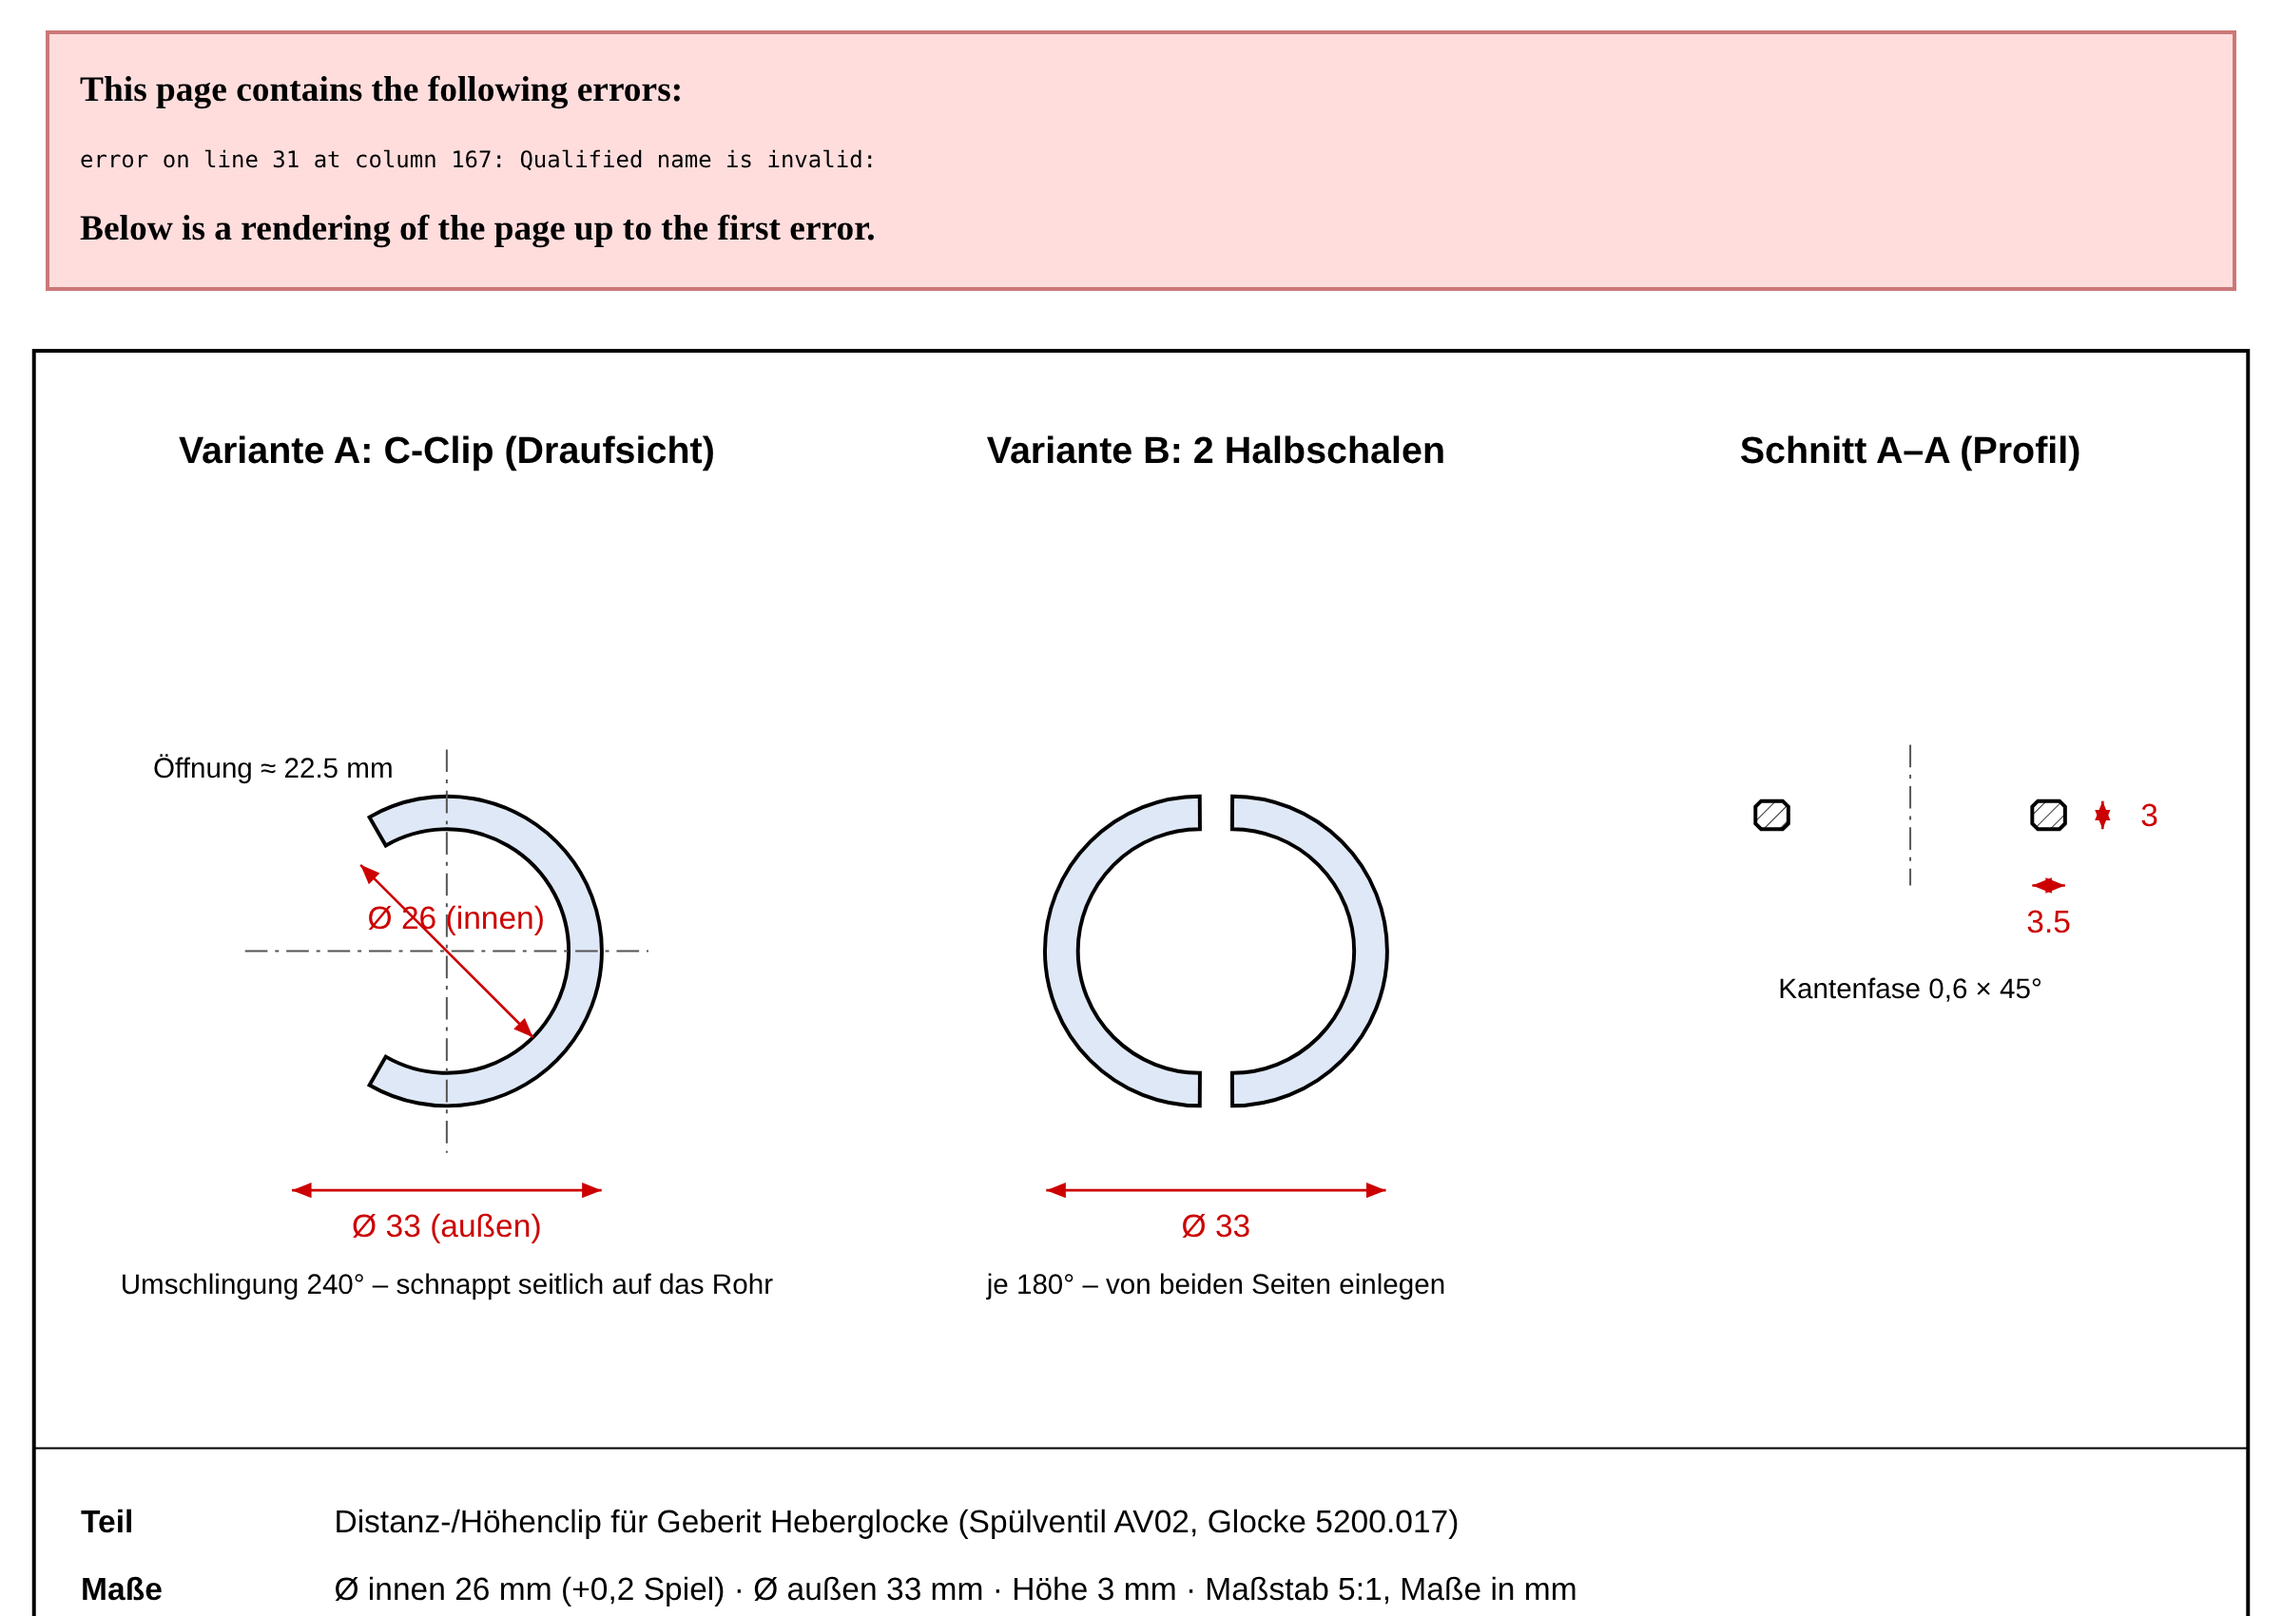
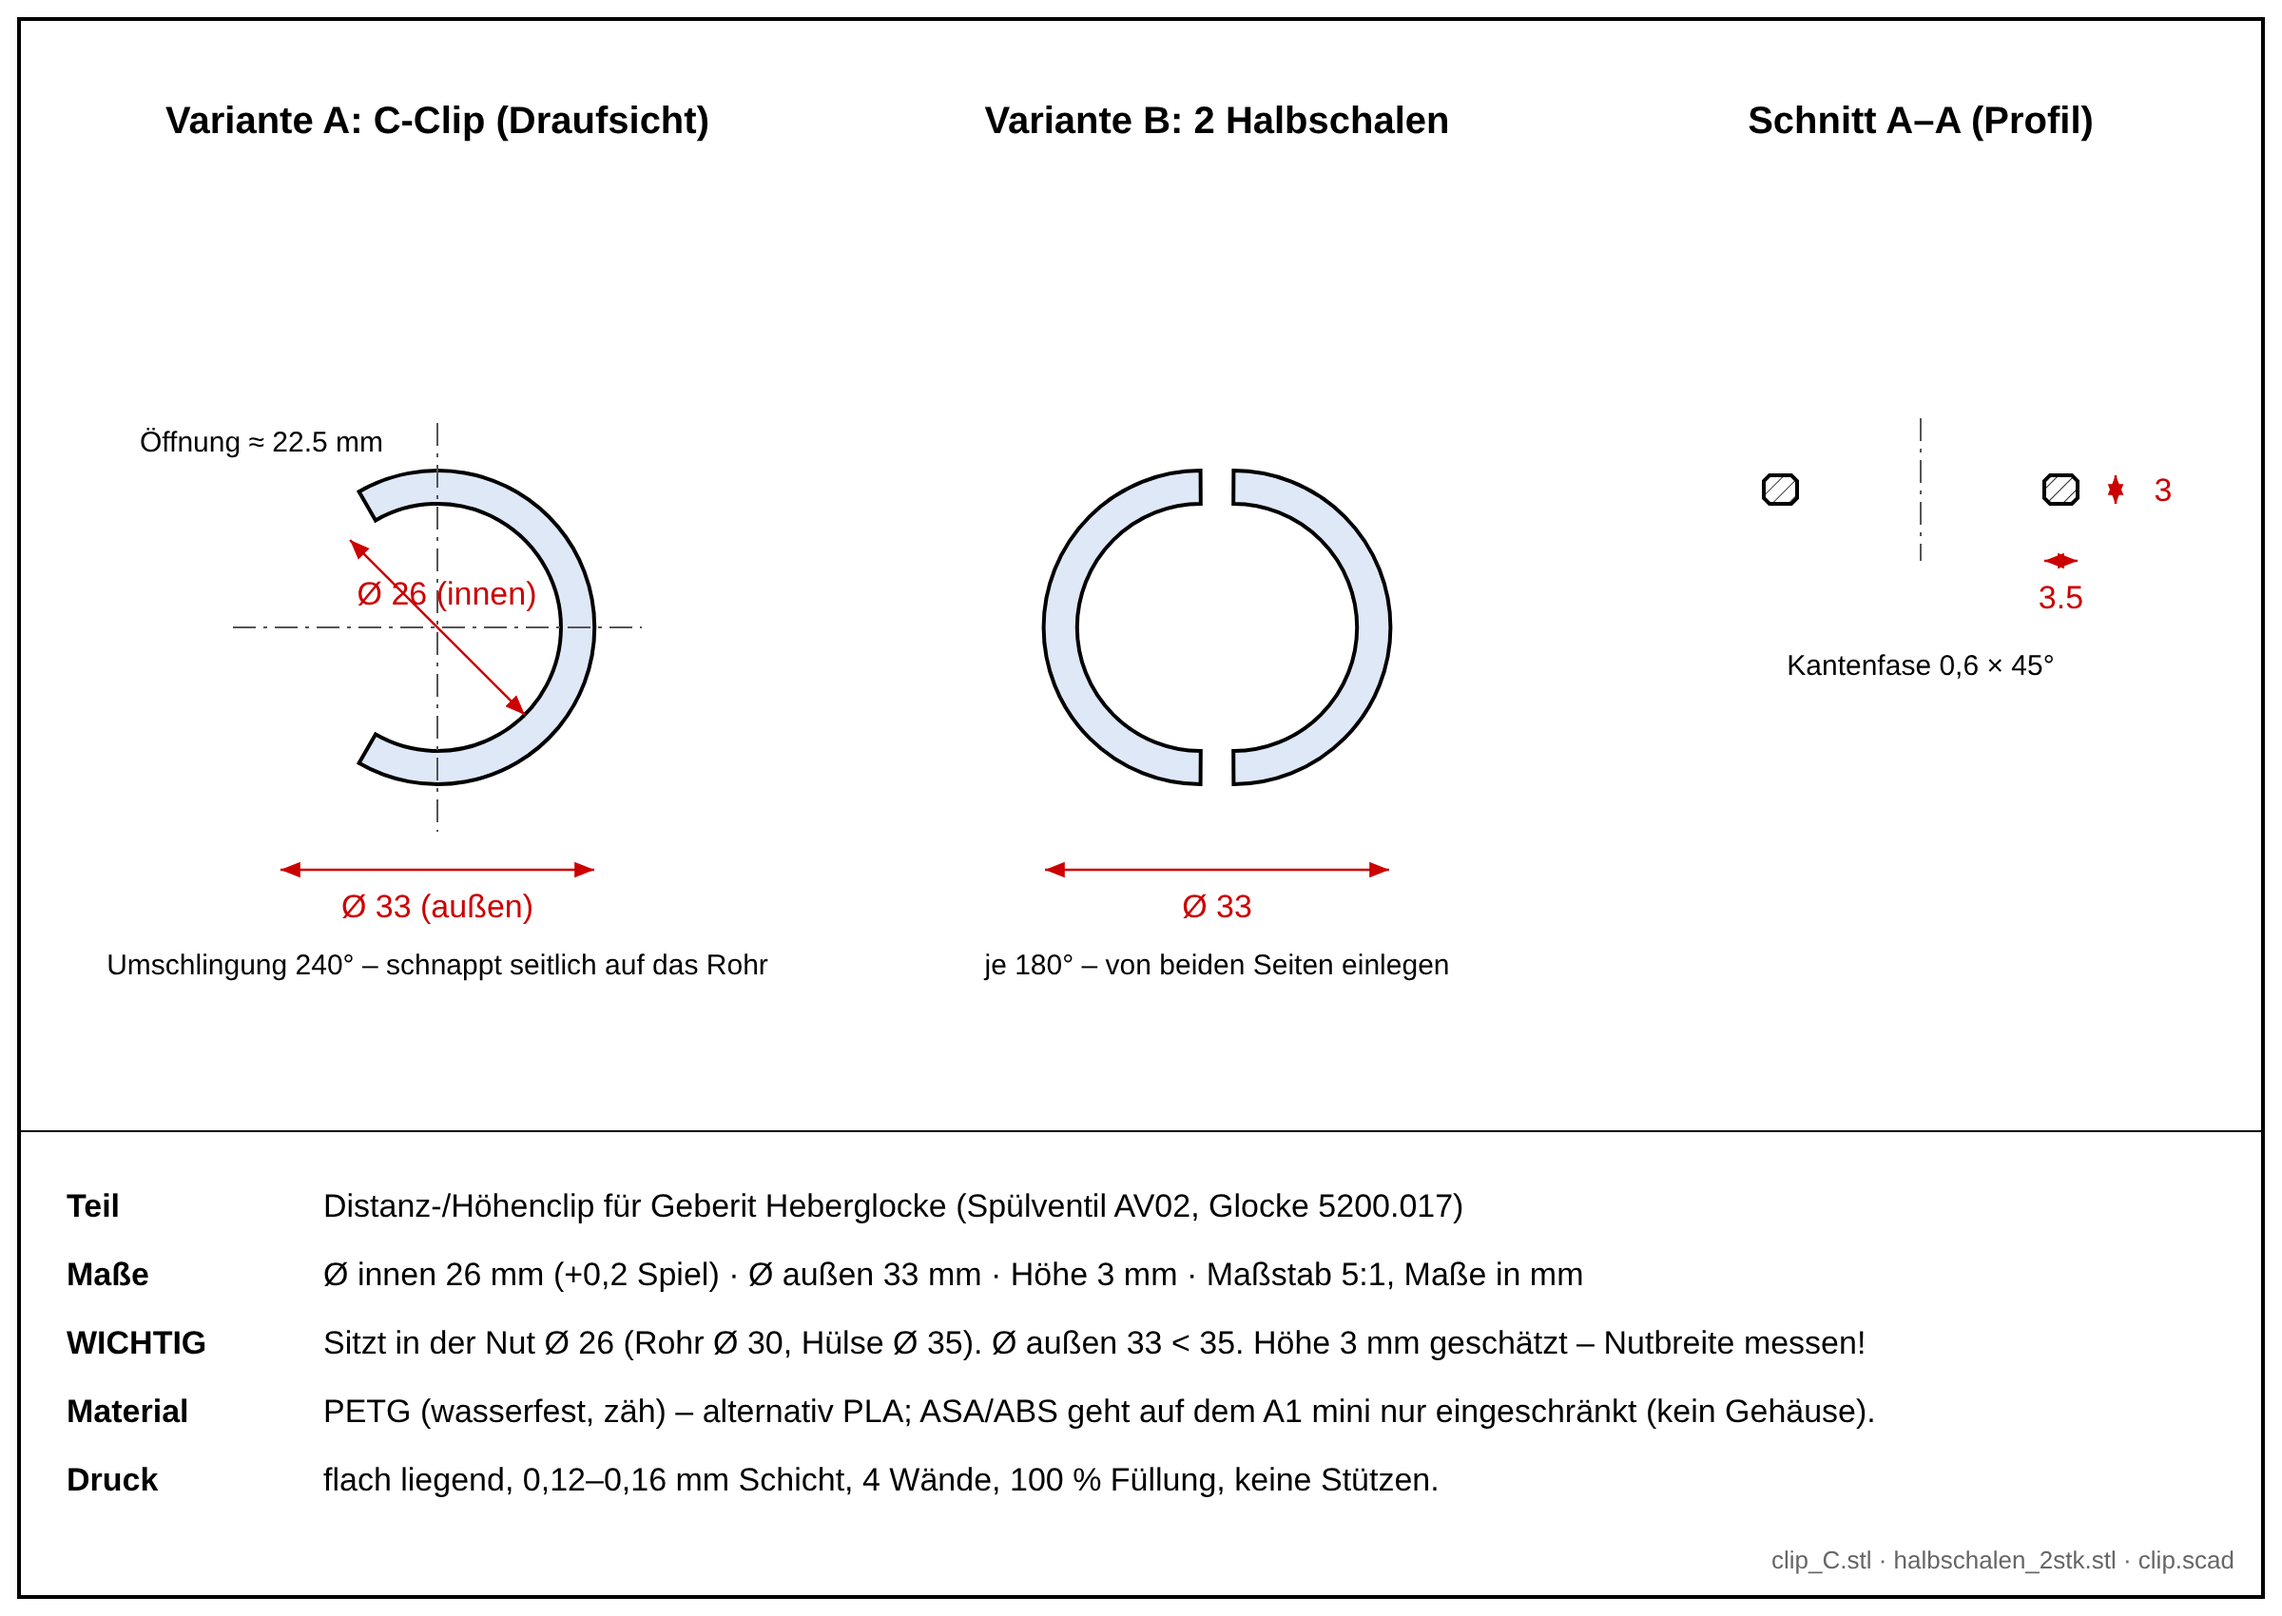
Zeichnung: Sonderzeichen escapen
Claude-Session: https://claude.ai/code/session_015ejh95KRpQS69T9Nq83a24

diff --git a/geberit-clip/zeichnung.py b/geberit-clip/zeichnung.py
@@ -58,7 +58,7 @@ ty = 640
 A(f'<line x1="10" y1="{ty-45}" x2="1190" y2="{ty-45}" stroke="#000"/>')
 rows = [("Teil","Distanz-/Höhenclip für Geberit Heberglocke (Spülventil AV02, Glocke 5200.017)"),
         ("Maße","Ø innen "+f"{ID:g}"+" mm (+0,2 Spiel) · Ø außen "+f"{OD:g}"+" mm · Höhe "+f"{H:g}"+" mm · Maßstab 5:1, Maße in mm"),
-        ("WICHTIG","Sitzt in der Nut Ø 26 (Rohr Ø 30, Hülse Ø 35). Ø außen 33 < 35. Höhe 3 mm geschätzt – Nutbreite messen!"),
+        ("WICHTIG","Sitzt in der Nut Ø 26 (Rohr Ø 30, Hülse Ø 35). Ø außen 33 &lt; 35. Höhe 3 mm geschätzt – Nutbreite messen!"),
         ("Material","PETG (wasserfest, zäh) – alternativ PLA; ASA/ABS geht auf dem A1 mini nur eingeschränkt (kein Gehäuse)."),
         ("Druck","flach liegend, 0,12–0,16 mm Schicht, 4 Wände, 100 % Füllung, keine Stützen.")]
 for i,(k,v) in enumerate(rows):
